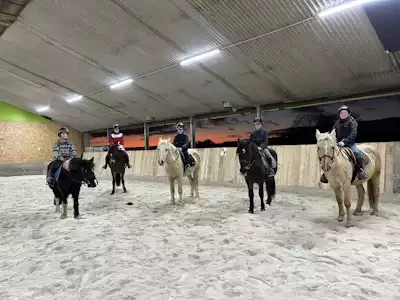
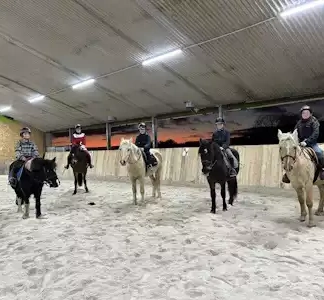
resize images

diff --git a/src/components/Cavalry.jsx b/src/components/Cavalry.jsx
@@ -65,7 +65,6 @@ const Cavalry = () => {
   };
 
   const nextImage = () => {
-    console.log('next' + currentImage);
     if (currentImage >= totalImages - 1) {
       scrollToImage(0);
     } else {
@@ -74,7 +73,6 @@ const Cavalry = () => {
   };
 
   const previousImage = () => {
-    console.log('previous' + currentImage);
     if (currentImage === 0) {
       scrollToImage(totalImages - 1);
     } else {
